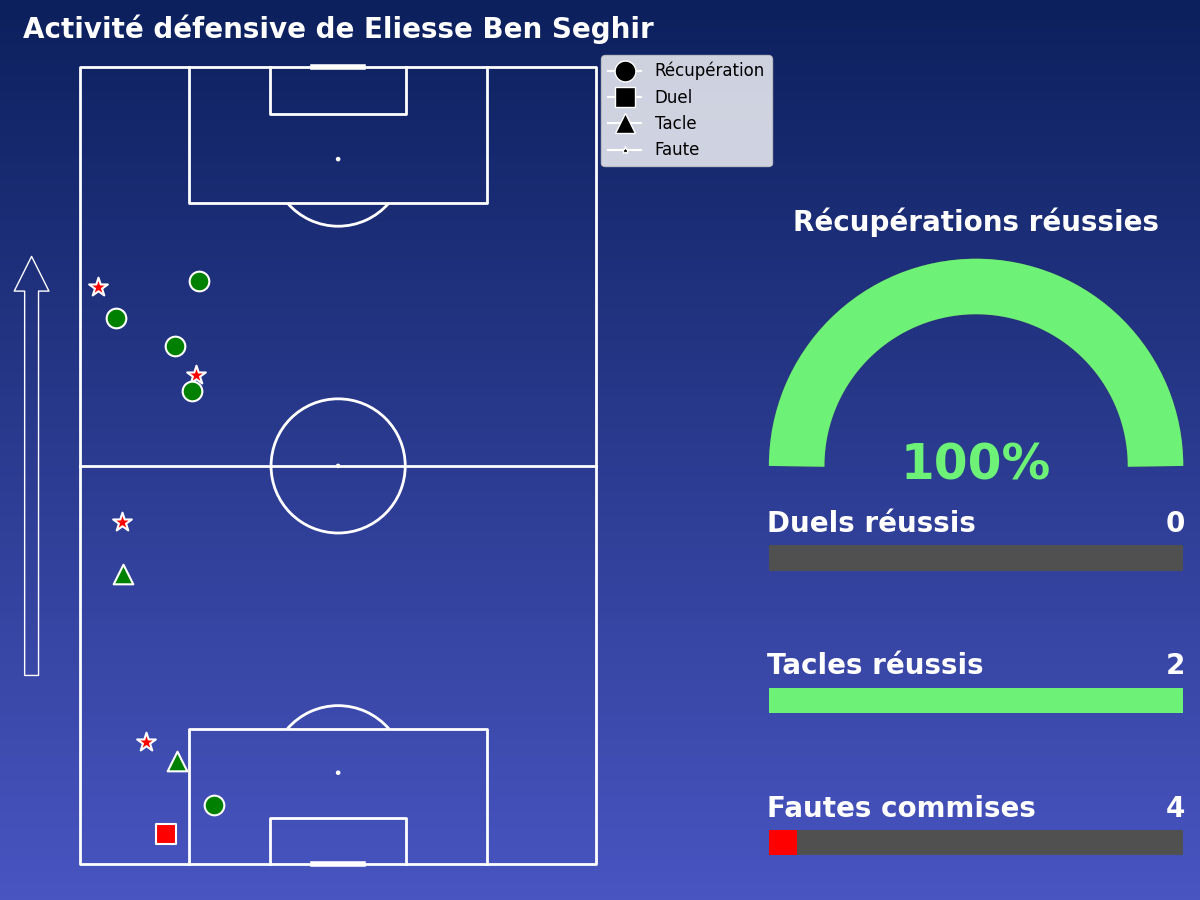
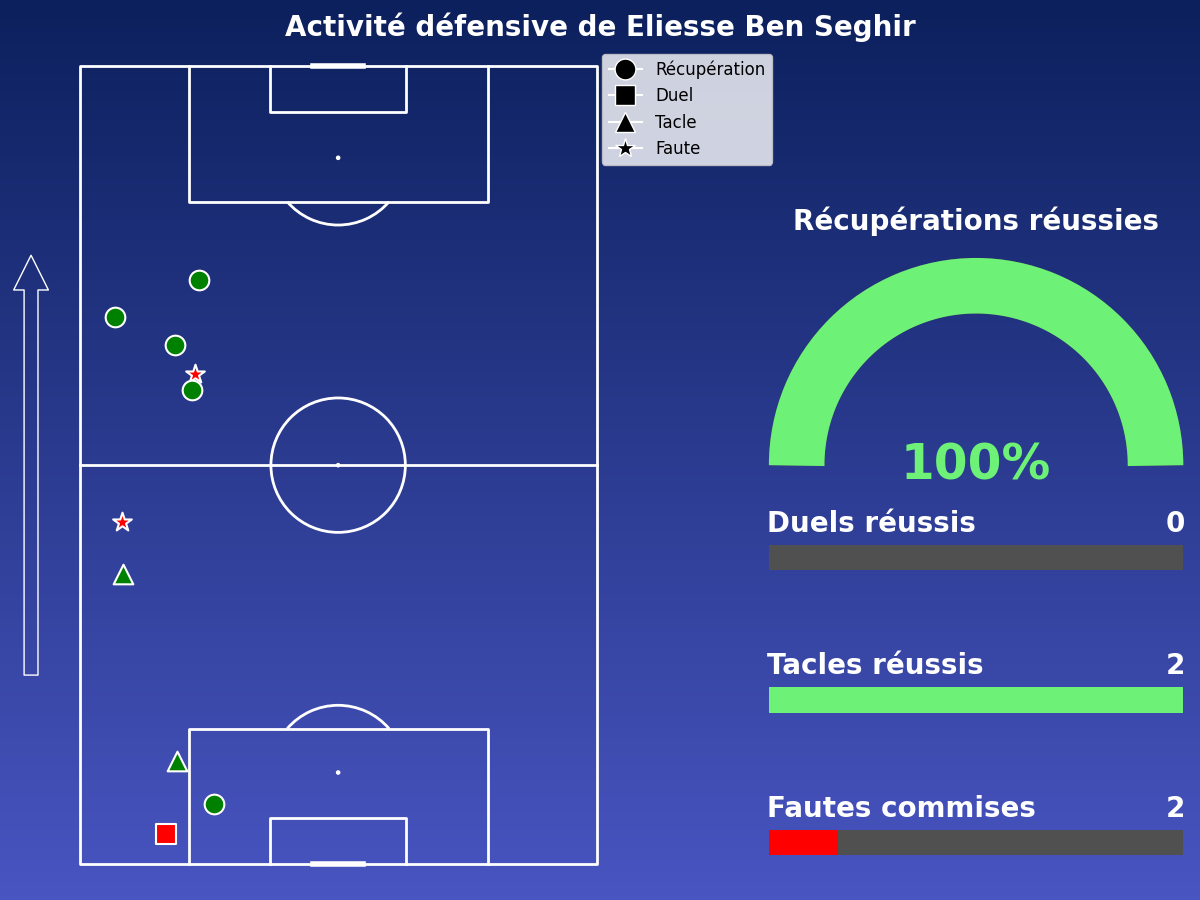
MAJ - visu et data ok

diff --git a/src/player_visualizer.py b/src/player_visualizer.py
@@ -97,9 +97,12 @@ class PlayerVisualizer:
     
         success_patch = mpatches.Patch(color='deepskyblue', label='Passe réussie')
         failed_patch = mpatches.Patch(color='red', label='Passe ratée')
-        ax_pitch.legend(handles=[success_patch, failed_patch], loc='upper right', bbox_to_anchor=(1.2925, 1), fontsize=12)
-        ax_pitch.set_title(f"Passes de {self.player_data['player_name']}", fontsize=20, color='white', fontweight='bold')
-    
+        ax_pitch.legend(handles=[success_patch, failed_patch], loc='upper right', bbox_to_anchor=(1.295, 1), fontsize=12)
+        ax_pitch.set_title("@MaData_fr", fontsize=20, color=(1, 1, 1, 0), fontweight='bold', loc='center')
+
+        # Ajoutez cette ligne à la place
+        ax.text(0.5, 0.96, f"Passes de {self.player_data['player_name']}", fontsize=20, color='white', fontweight='bold', ha='center', transform=ax.transAxes)
+
         # 2. Plotting data visualizations on the right side
     
         # Move the semi-circular gauge lower (closer to the first bar plot)
@@ -156,18 +159,18 @@ class PlayerVisualizer:
 
     def _add_horizontal_bar(self, ax, label, value, max_value):
         bar_height = 0.3
-        if max_value == 0:
-            max_value = max_value+1
-            
-        filled_length = value / max_value
+        filled_length = 0
+
+        if max_value != 0:
+            filled_length = value / max_value
 
         # Vérifier si la barre concerne les fautes commises
-        if 'Fautes' in label:
+        if 'Fautes commises' in label:
             # Palette de couleurs pour les fautes (toujours rouge)
             cmap = mcolors.LinearSegmentedColormap.from_list('red', ['#FF0000', '#FF0000'])  # Palette entièrement rouge
         else:
             # Palette de couleurs pour les autres événements (du rouge à vert)
-            cmap = mcolors.LinearSegmentedColormap.from_list('red_gray', ['red', 'orange', '#6DF176'])  # Rouge -> Vert
+            cmap = mcolors.LinearSegmentedColormap.from_list('orange', ['orange', '#6DF176'])  # Rouge -> Vert
 
         # Couleur interpolée en fonction de la longueur remplie
         bar_color = cmap(filled_length)
@@ -398,7 +401,7 @@ class PlayerVisualizer:
         successful_tackles = [event for event in tackles if event.get('outcomeType', {}).get('displayName') == 'Successful']
 
         fouls = [event for event in defensive_events if event['type']['displayName'] == 'Foul']
-        committed_fouls = len(fouls)  # Assume all fouls are "committed"
+        committed_fouls = [event for event in fouls if event.get('outcomeType', {}).get('displayName') == 'Successful']
 
         total_events = len(defensive_events)
 
@@ -459,10 +462,12 @@ class PlayerVisualizer:
 
             # Si l'événement est une faute, la couleur doit toujours être rouge
             if event_type == 'Foul':
+                if outcome == 'Successful':
+                    continue
                 color = 'red'
             else:
                 color = color_map.get(outcome, 'green')  # Default to green if outcome not recognized
-
+            
             pitch.scatter(x, y, s=200, marker=marker, color=color, edgecolor='white', linewidth=1.5, ax=ax_pitch)
 
         # Création de la légende
@@ -470,10 +475,13 @@ class PlayerVisualizer:
             plt.Line2D([0], [0], marker='o', color='w', label='Récupération', markerfacecolor='black', markersize=15),
             plt.Line2D([0], [0], marker='s', color='w', label='Duel', markerfacecolor='black', markersize=15),
             plt.Line2D([0], [0], marker='^', color='w', label='Tacle', markerfacecolor='black', markersize=15),
-            plt.Line2D([0], [0], marker='*', color='w', label='Faute', markerfacecolor='black'),
+            plt.Line2D([0], [0], marker='*', color='w', label='Faute', markerfacecolor='black', markersize=15),
         ]
         ax_pitch.legend(handles=legend_handles, loc='upper right', bbox_to_anchor=(1.2925, 1), fontsize=12)
-        ax_pitch.set_title(f"Activité défensive de {self.player_data['player_name']}", fontsize=20, color='white', fontweight='bold')
+        ax_pitch.set_title("@MaData_fr", fontsize=20, color=(1, 1, 1, 0), fontweight='bold', loc='center')
+
+        # Ajoutez cette ligne à la place
+        ax.text(0.5, 0.96, f"Activité défensive de {self.player_data['player_name']}", fontsize=20, color='white', fontweight='bold', ha='center', transform=ax.transAxes)
 
         # 2. Visualisation des données sur le côté droit
 
@@ -489,7 +497,7 @@ class PlayerVisualizer:
         # Ajout des barres avec des pourcentages spécifiques à chaque type d'événement
         self._add_horizontal_bar(ax_bar1, 'Duels réussis', len(successful_challenges), len(challenges))
         self._add_horizontal_bar(ax_bar2, 'Tacles réussis', len(successful_tackles), len(tackles))
-        self._add_horizontal_bar(ax_bar3, 'Fautes commises', committed_fouls, len(events))
+        self._add_horizontal_bar(ax_bar3, 'Fautes commises', len(committed_fouls), total_events)
 
         plt.tight_layout()
         plt.savefig(save_path)
@@ -500,7 +508,7 @@ class PlayerVisualizer:
 
         # Filtrage des événements offensifs
         offensive_events = [
-            event for event in events if event['type']['displayName'] in ['TakeOn', 'MissedShots', 'Goal']
+            event for event in events if event['type']['displayName'] in ['TakeOn', 'MissedShots', 'SavedShot', 'Goal', 'Foul']
         ]
 
         if not offensive_events:
@@ -512,7 +520,11 @@ class PlayerVisualizer:
         successful_takeons = [event for event in takeons if event.get('outcomeType', {}).get('displayName') == 'Successful']
 
         missed_shots = [event for event in offensive_events if event['type']['displayName'] == 'MissedShots']
+        saved_shots = [event for event in offensive_events if event['type']['displayName'] == 'SavedShot']
         goals = [event for event in offensive_events if event['type']['displayName'] == 'Goal']
+
+        fouls = [event for event in offensive_events if event['type']['displayName'] == 'Foul']
+        submitted_fouls = [event for event in fouls if event.get('outcomeType', {}).get('displayName') == 'Unsuccessful']
 
         total_events = len(offensive_events)
 
@@ -558,12 +570,12 @@ class PlayerVisualizer:
             outcome = event['outcomeType']['displayName']
 
             if event_type == 'TakeOn':
-                # Étoiles pour les dribbles
+                # Carré pour les dribbles
                 marker = 's'  
                 color = 'green' if outcome == 'Successful' else 'red'
                 pitch.scatter(x, y, s=200, marker=marker, color=color, edgecolor='white', linewidth=1.5, ax=ax_pitch)
 
-            elif event_type in ['MissedShots', 'Goal']:
+            elif event_type in ['MissedShots', 'SavedShot','Goal']:
                 # Ronds pour les tirs et les buts
                 marker = 'o'
                 color = 'green' if event_type == 'Goal' else 'red'
@@ -573,21 +585,31 @@ class PlayerVisualizer:
 
                 # Trajectoire du tir avec une flèche
                 goalmouth_y = next((float(q['value']) for q in event['qualifiers'] if q['type']['displayName'] == 'GoalMouthY'), None)
-                goalmouth_z = next((float(q['value']) for q in event['qualifiers'] if q['type']['displayName'] == 'GoalMouthZ'), None)
 
-                if goalmouth_y is not None and goalmouth_z is not None:
+                if goalmouth_y is not None:
                     end_x = 100  # Les tirs se terminent à la ligne de but
                     end_y = (goalmouth_y / 100) * pitch.dim.pitch_length
                     pitch.arrows(x, y, end_x, end_y, width=2, headwidth=3, headlength=3, color=color, ax=ax_pitch)
 
+            elif event_type == 'Foul':
+                
+                # Étoiles pour les fautes subies
+                marker = '*'  
+                color = 'green' #if outcome == 'Successful' else 'red'
+                if outcome == 'Successful':
+                    pitch.scatter(x, y, s=200, marker=marker, color=color, edgecolor='white', linewidth=1.5, ax=ax_pitch)
+
         # Création de la légende
         legend_handles = [
             plt.Line2D([0], [0], marker='s', color='w', label='Dribble', markerfacecolor='black', markersize=15),
-            plt.Line2D([0], [0], marker='o', color='w', label='But', markerfacecolor='green', markersize=15),
-            plt.Line2D([0], [0], marker='o', color='w', label='Tir', markerfacecolor='red', markersize=15)
+            plt.Line2D([0], [0], marker='o', color='w', label='Tir', markerfacecolor='black', markersize=15),
+            plt.Line2D([0], [0], marker='*', color='w', label='Faute subie', markerfacecolor='black', markersize=15)
         ]
-        ax_pitch.legend(handles=legend_handles, loc='upper right', bbox_to_anchor=(1.2, 1), fontsize=12)
-        ax_pitch.set_title(f"Activité offensive de {self.player_data['player_name']}", fontsize=20, color='white', fontweight='bold')
+        ax_pitch.legend(handles=legend_handles, loc='upper right', bbox_to_anchor=(1.265, 1), fontsize=12)
+        ax_pitch.set_title("@MaData_fr", fontsize=20, color=(1, 1, 1, 0), fontweight='bold', loc='center')
+
+        # Ajoutez cette ligne à la place
+        ax.text(0.5, 0.96, f"Activité offensive de {self.player_data['player_name']}", fontsize=20, color='white', fontweight='bold', ha='center', transform=ax.transAxes)
 
         # 2. Visualisation des données sur le côté droit
 
@@ -598,10 +620,12 @@ class PlayerVisualizer:
         # Barres horizontales pour les dribbles et tirs manqués
         ax_bar1 = fig.add_subplot(gs[3, 1])
         ax_bar2 = fig.add_subplot(gs[4, 1])
+        ax_bar3 = fig.add_subplot(gs[5, 1])
 
         # Ajout des barres avec des pourcentages spécifiques à chaque type d'événement
         self._add_horizontal_bar(ax_bar1, 'Dribbles réussis', len(successful_takeons), len(takeons))
-        self._add_horizontal_bar(ax_bar2, 'Tirs', len(missed_shots), len(missed_shots) + len(goals))
+        self._add_horizontal_bar(ax_bar2, 'Fautes subies', len(submitted_fouls), len(takeons))
+        self._add_horizontal_bar(ax_bar3, 'Tirs cadrés', len(saved_shots) + len(goals), len(missed_shots) + len(goals) + len(saved_shots))
 
         plt.tight_layout()
         plt.savefig(save_path_pitch)
